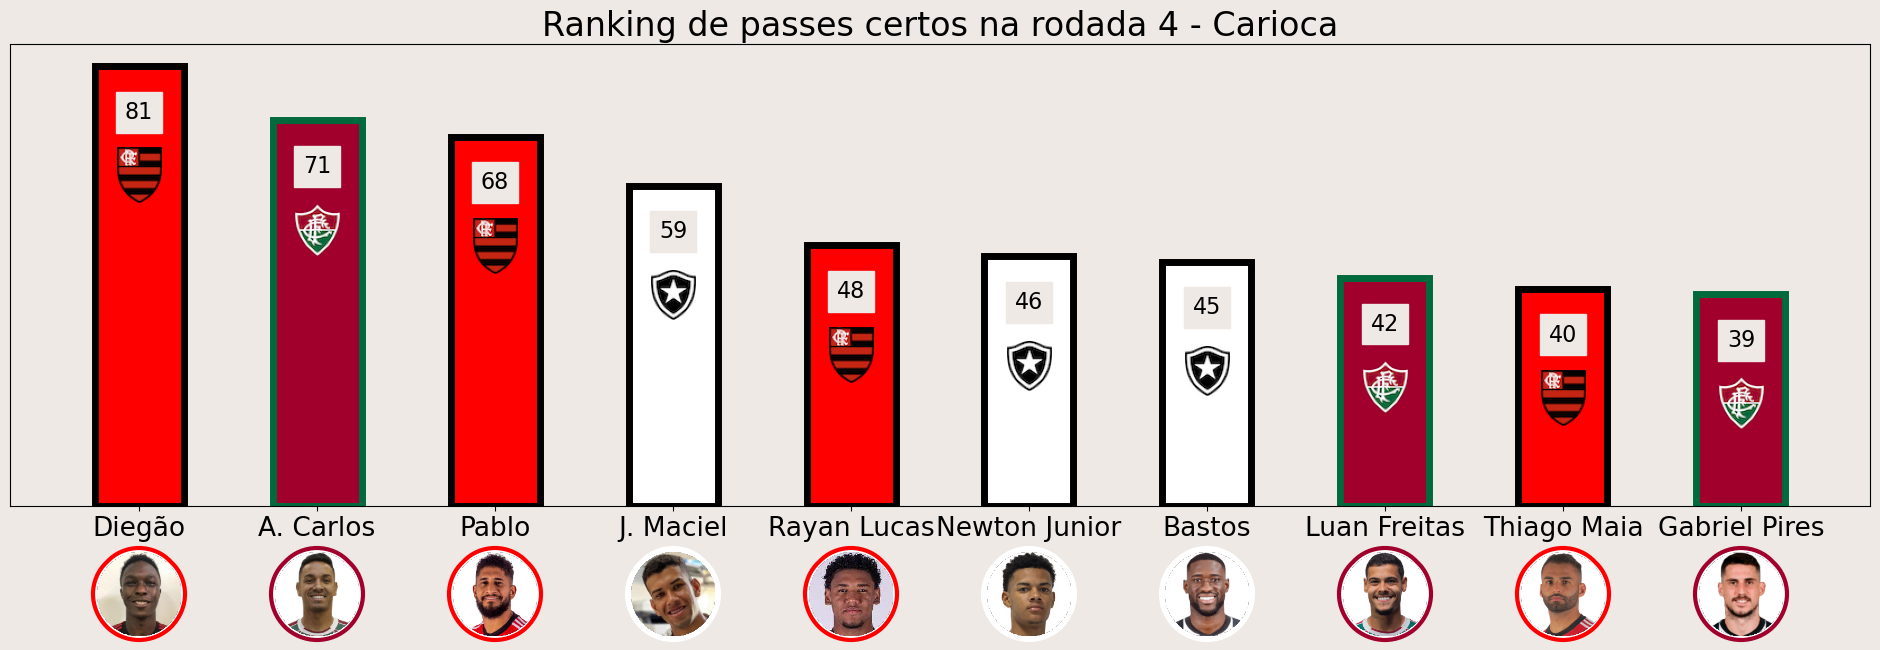
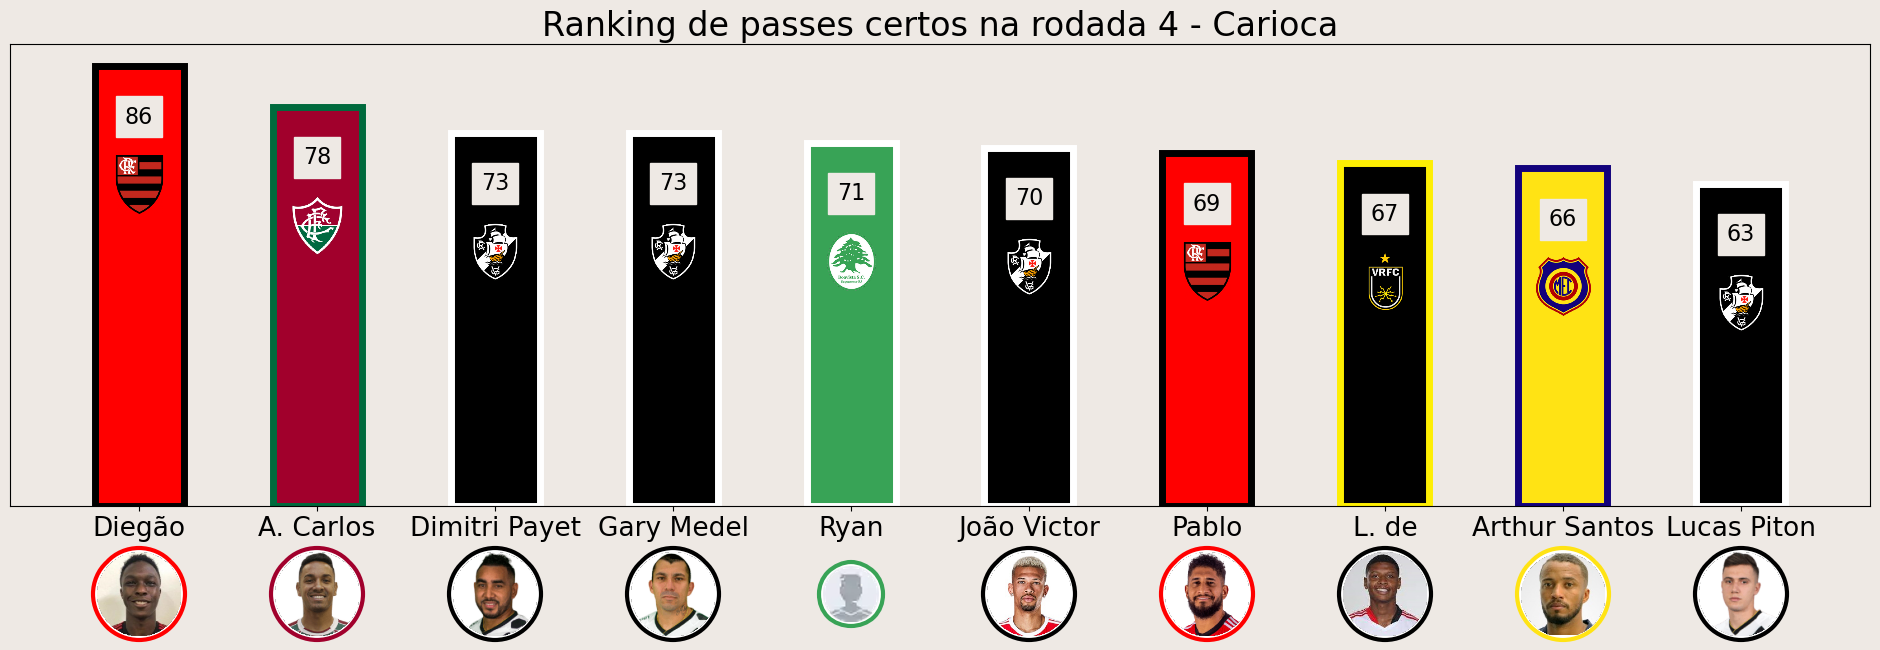
generate ranking and data

Changed region(s): [[0.216, 0.1846, 0.9872, 0.9846], [0.1234, 0.1538, 0.216, 0.4], [0.0617, 0.1231, 0.0926, 0.3385]]

diff --git a/generate_chart.py b/generate_chart.py
@@ -2,4 +2,7 @@ from utils.charts import *
 
 path = os.getcwd() + '/data/data.csv'
 data = pd.read_csv(path)
-generate_bar_from_data(data, "accuratePass", "Ranking de passes certos na rodada 4 - Carioca")
+generate_bar_from_data(data, "totalPass", "Ranking de passes certos na rodada 4 - Carioca")
+generate_bar_from_data(data, "duelWon", "Ranking de duelos ganhos na rodada 4 - Carioca")
+generate_bar_from_data(data, "interceptionWon", "Ranking de interceptações na rodada 4 - Carioca")
+
